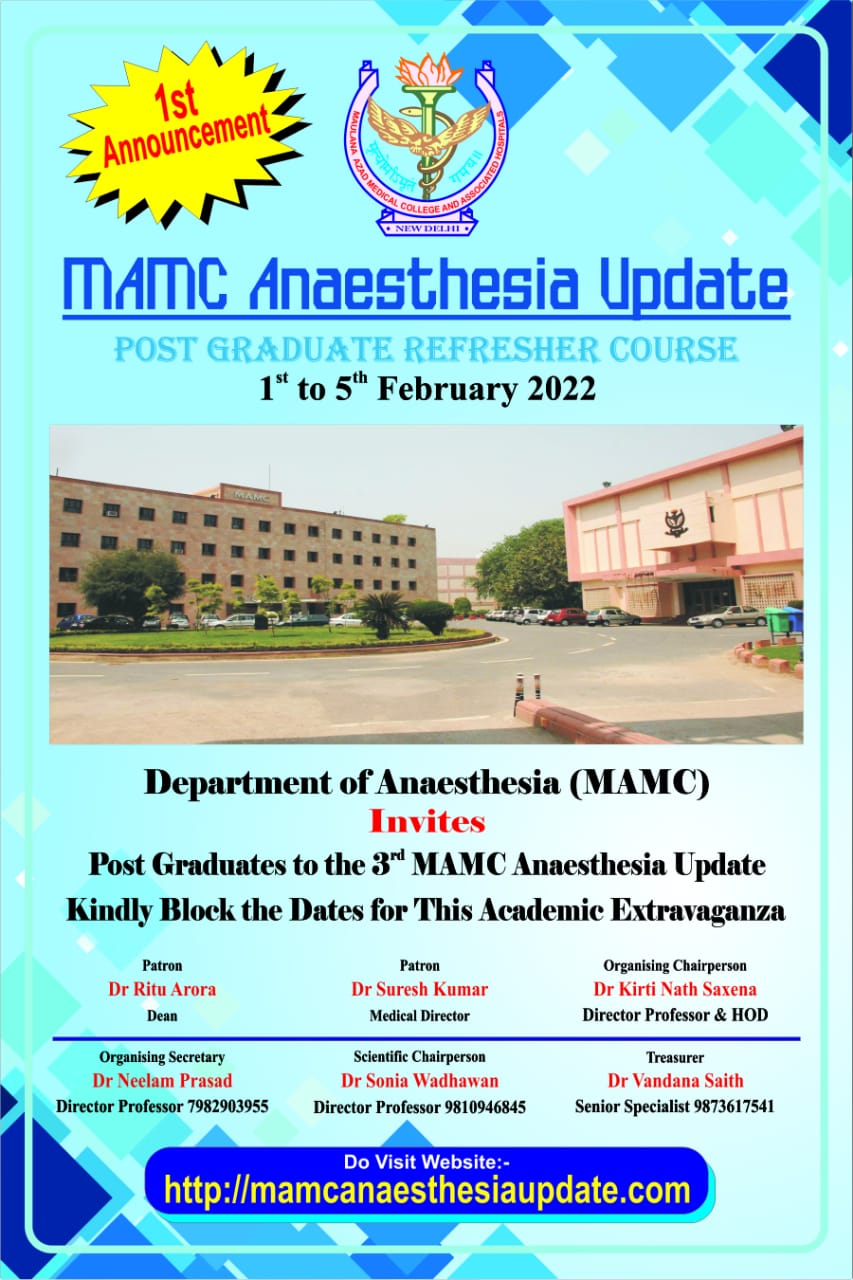
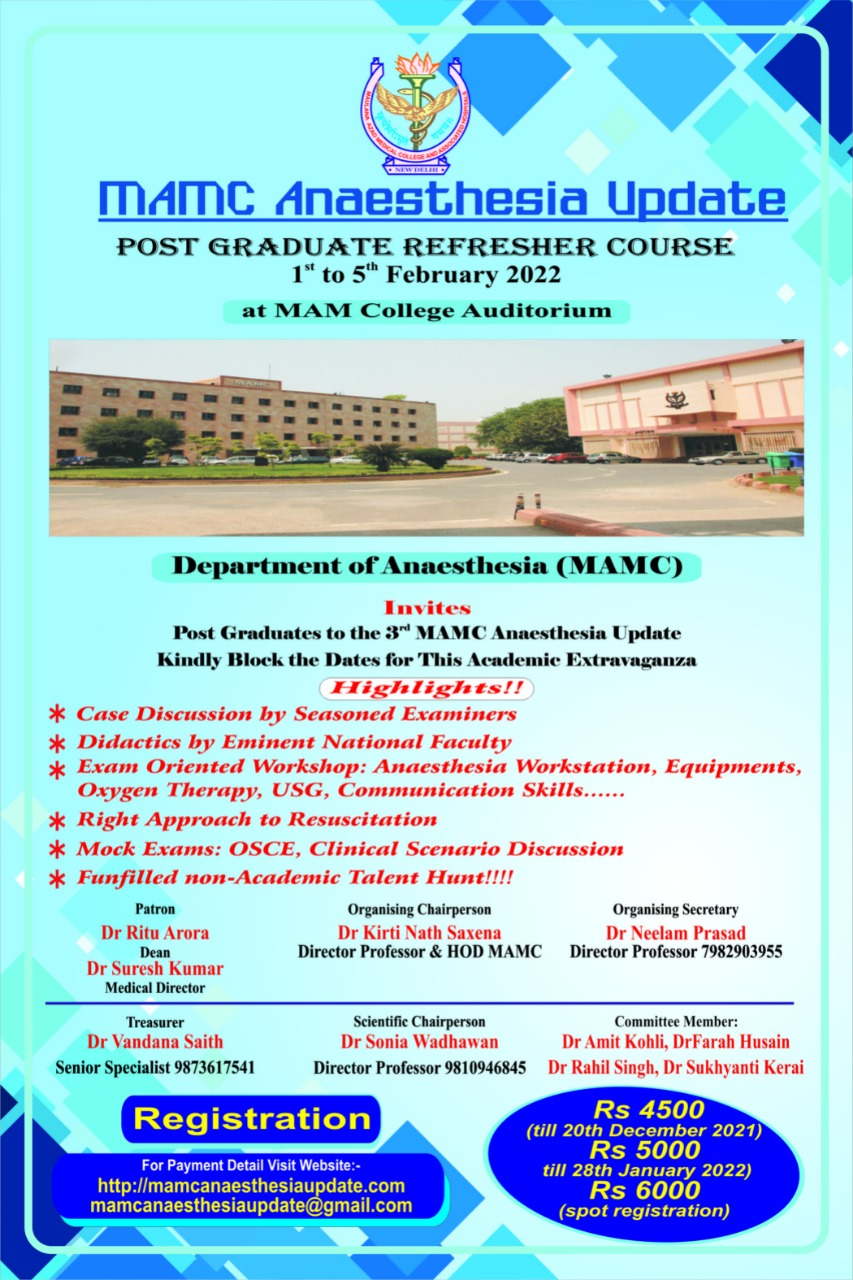
updated changes

diff --git a/registration.md b/registration.md
@@ -3,19 +3,20 @@ layout: page
 title: Registration
 permalink: /registration/
 ---
-*Coming Soon*
+<!-- *Coming Soon* -->
 
 
-<!-- Fee details: 
-- ~~Rs. 3500/-, 8th July 2019 to 22nd August 2019.~~
-- Rs. 4000/-, on-spot registrations.
+Fee details: 
+- Rs. 5000 (till 10th January 2022)
+- Rs 5500(till 25th January 2022)
+- Rs 6000 (on-spot registration)
 
 Pay at:
-- ~~Bank           - Syndicate Bank~~
-- ~~Account Number - 90682010134614~~
-- ~~Account Name   - MAMC ANAESTHESIA UPDATE~~
-- ~~IFSC Code      - SYNB0009068~~
+- Bank           - Syndicate Bank
+- Account Number - 90682010134614
+- Account Name   - MAMC ANAESTHESIA UPDATE
+- IFSC Code      - SYNB0009068
 
-##### After payment fill the registration details [here](https://docs.google.com/forms/d/e/1FAIpQLScACQzIlqV5JNsssZbs-p8T8oNE6YjUfxY3ujqVgUpxxXHlug/viewform){:target="_blank"} we will contact you after your registration is confirmed.  
+##### After payment fill the registration details [here](https://forms.gle/mXw4zrT7fDFMhPtU8){:target="_blank"} we will contact you after your registration is confirmed.  
 
-##### Please also send a snapshot of the reciept to [mamcanaesthesiaupdate2019@gmail.com](mailto:mamcanaesthesiaupdate2019@gmail.com) after payment -->
+##### Please also send a snapshot of the reciept to [mamcanaesthesiaupdate@gmail.com](mailto:mamcanaesthesiaupdate@gmail.com) after payment

diff --git a/commitee.md b/commitee.md
@@ -30,7 +30,7 @@ permalink: /commitee/
 |        |    |   |
 | :--------------:   | :-------------------: | :------------------:   |
 | ![404]({{site.baseurl}}/images/amit.png){:height="160px" width="160px"} |   ![404]({{site.baseurl}}/images/sukh.jpg){:height="160px" width="160px"}     | ![404]({{site.baseurl}}/images/farah.jpg){:height="160px" width="160px"} |
-| Dr Amit Kohli (Assosiate Professor)  |    Dr Farah Hussain (Specialist)  |  Dr Farah Hussain (Specialist) |
+| Dr Amit Kohli (Assosiate Professor)  |    Dr Sukhyanti Kerai (Assistant Professor)  |  Dr Farah Hussain (Specialist) |
 | ![404]({{site.baseurl}}/images/rahil.jpeg){:height="160px" width="160px"} |   |  |
 | Dr Rahil Singh (Assosiate Professor) |  |  |
 

diff --git a/contact.md b/contact.md
@@ -7,4 +7,4 @@ permalink: /contact/
 Feel Free to contact us at:
 
 Dr. Neelam Prasad: [+91 7982903955](callto: +917982903955), &nbsp; Dr. Sonia Wadhawan: [+91 9810946845](callto: +919810946845), &nbsp;<br/>Dr. Vandana Saith[+91 9873617541](callto: +919873617541), &nbsp; <br/>
-Email: [mamcanaesthesiaupdate2019@gmail.com](mailto:mamcaneasthesiaupdate2019@gmail.com)
+Email: [mamcanaesthesiaupdate@gmail.com](mailto:mamcaneasthesiaupdate@gmail.com)
